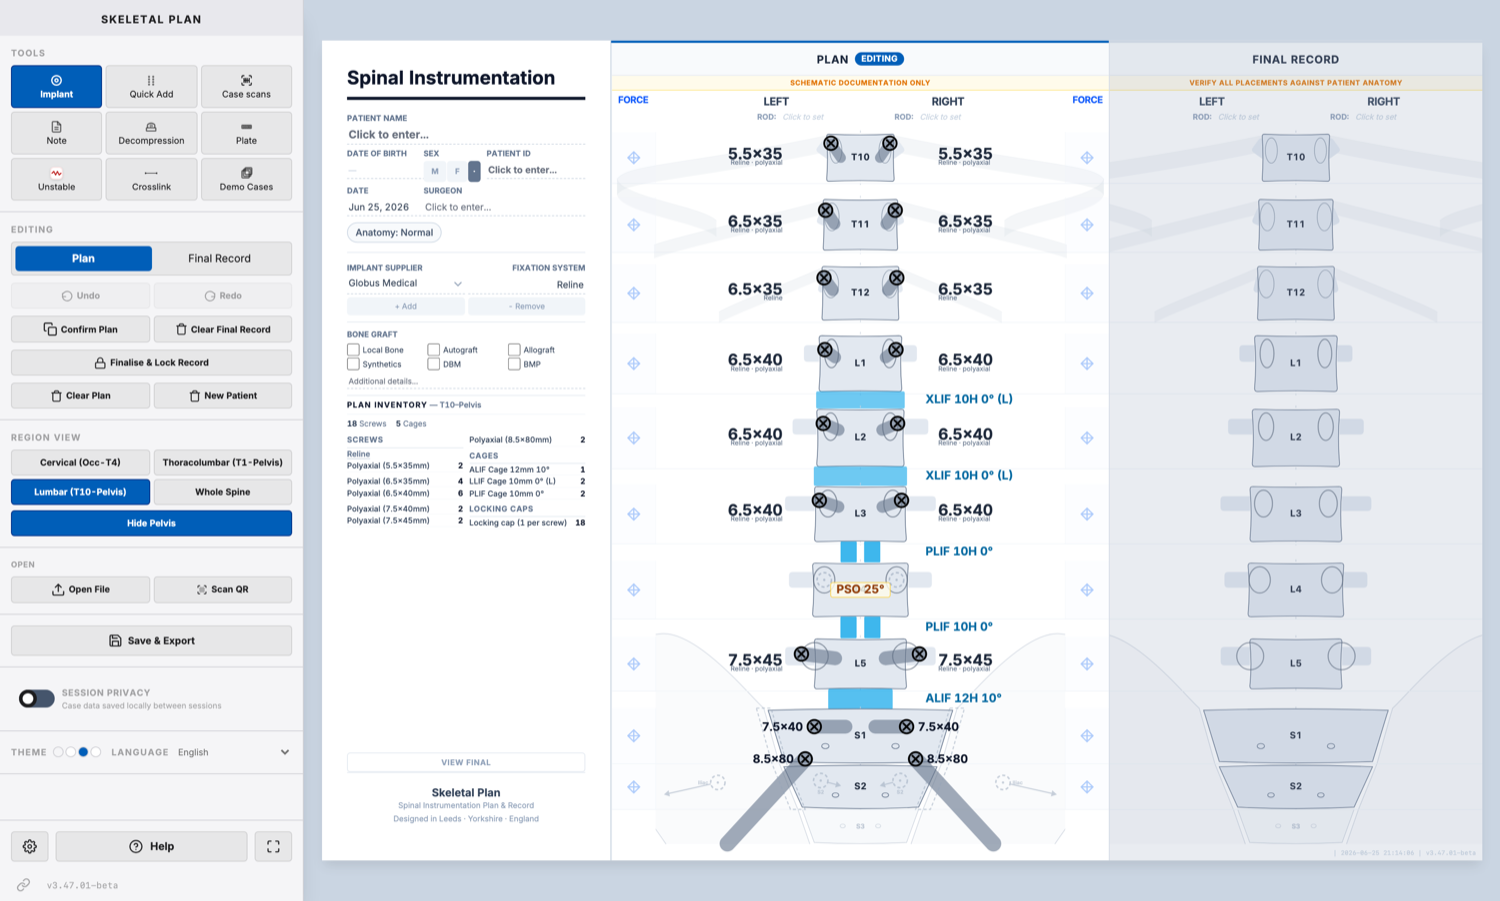
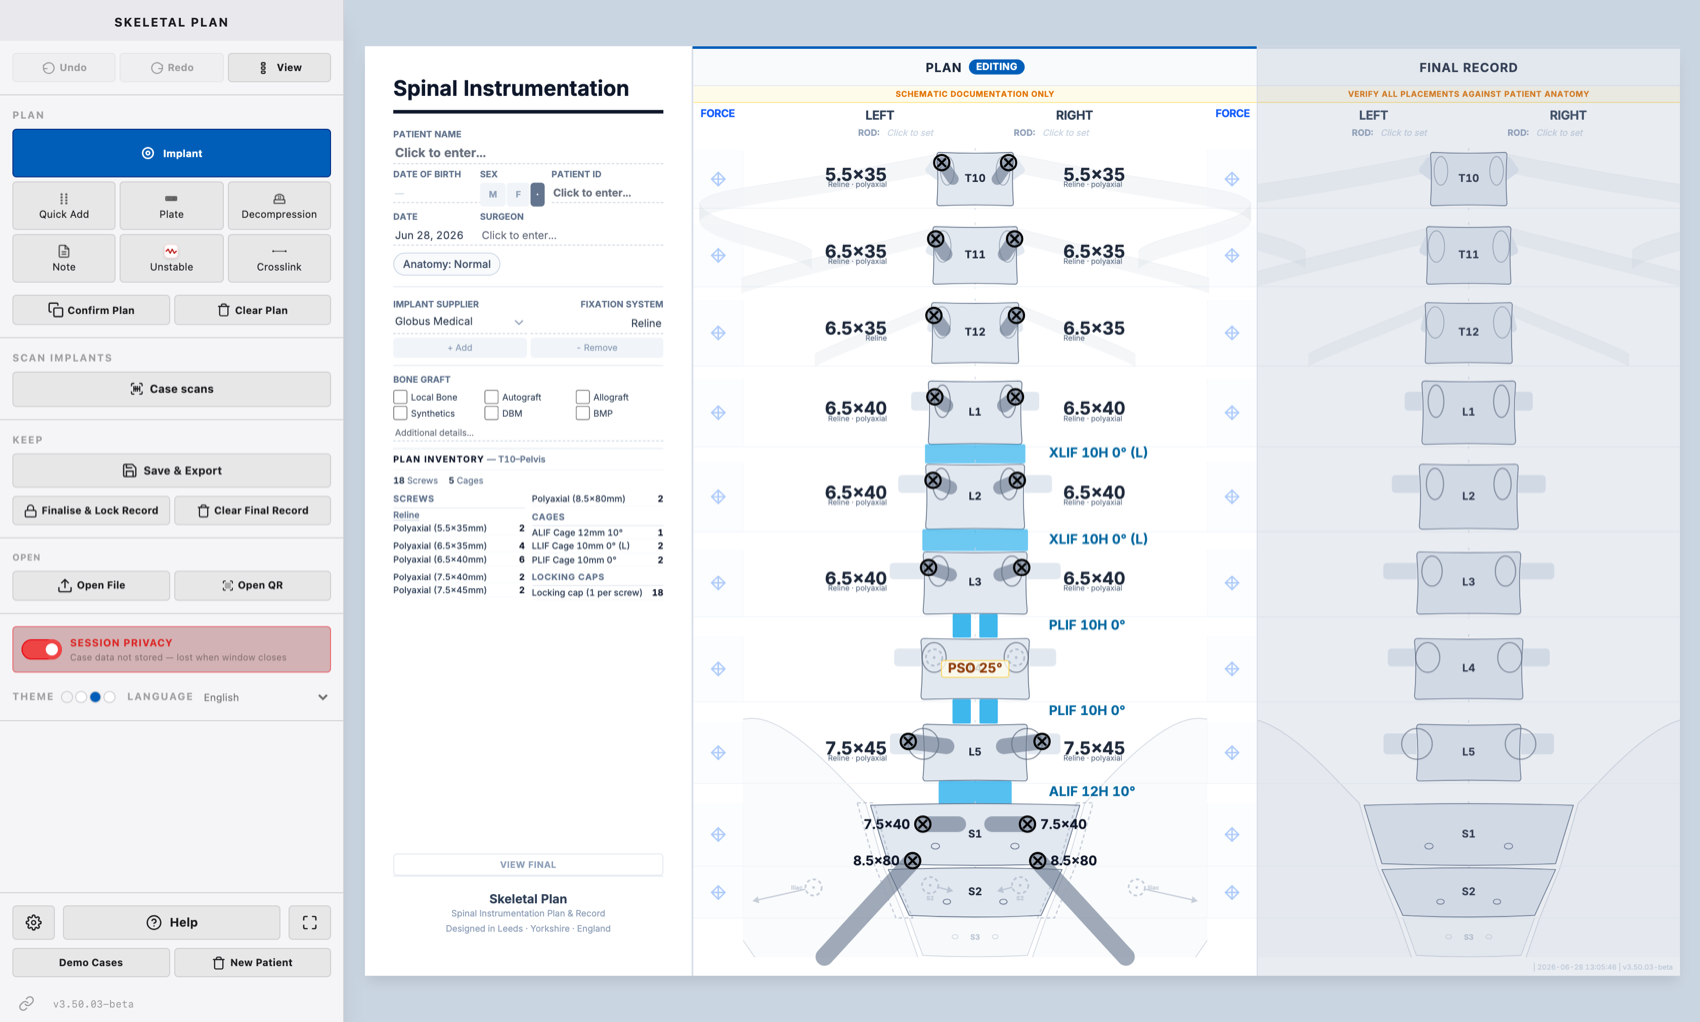
landing: 4-device hero montage; corrected barcodes; paragraph + UI refresh
- Hero is now a montage of all four screen grabs: current desktop PSO
  (recaptured — Undo/Redo now at top), iPad cervical corpectomy (portrait),
  iPhone AIS plan, iPhone AIS final (teal ghosts). Removed the separate
  showcase band (folded into the hero).
- Barcodes: Solera Voyager 6.5x45 (00643169745261, was an odd 4.5x45),
  every expiry set to 2032-10-20 (321020), and the Stryker HIBC is now a
  two-part dual scan — primary (product) + secondary (lot + expiry) stacked.
- Fix the About paragraph run-on (the earlier em-dash removal left a
  comma-splice); split into two clean sentences.

diff --git a/index.html b/index.html
@@ -60,14 +60,17 @@
   .trustline{ margin-top:20px; color:#7e8ea0; font-size:.82rem; }
   .trustline b{ color:#aab8c8; font-weight:600; }
 
-  .shot{ position:relative; }
-  .shot .desk{ width:100%; border-radius:12px; border:1px solid #28384b; box-shadow:0 26px 60px -24px rgba(0,0,0,.7); display:block; }
-  .shot .phone{ position:absolute; right:-6px; bottom:-24px; width:26%; min-width:116px; border-radius:16px; border:3px solid #1c2c3e; box-shadow:0 20px 40px -14px rgba(0,0,0,.65); }
+  .shot{ position:relative; width:100%; aspect-ratio:1 / 0.84; }
+  .shot img{ position:absolute; border-radius:10px; box-shadow:0 22px 48px -22px rgba(0,0,0,.62); display:block; }
+  .m-desk{ top:0; right:0; width:88%; border:1px solid #28384b; z-index:1; }
+  .m-pad{ bottom:0; left:0; width:31%; border:3px solid #1c2c3e; border-radius:14px; z-index:3; }
+  .m-phone{ width:21.5%; border:3px solid #1c2c3e; border-radius:16px; }
+  .m-phone1{ bottom:-3%; left:27%; z-index:4; }
+  .m-phone2{ bottom:7%; left:48%; z-index:2; }
   @media (max-width:840px){
-    .hero-in{ grid-template-columns:1fr; gap:36px; padding:46px 22px 50px; }
+    .hero-in{ grid-template-columns:1fr; gap:30px; padding:46px 22px 50px; }
     .hero h1{ font-size:2.1rem; }
-    .shot{ max-width:520px; }
-    .shot .phone{ bottom:-16px; }
+    .shot{ max-width:580px; margin:0 auto; }
   }
 
   .wrap{ max-width:1000px; margin:0 auto; padding:0 24px; }
@@ -138,6 +141,8 @@
   .code img{ display:block; margin:0 auto; height:118px; width:auto; max-width:90vw; }
   .code .cap{ margin-top:11px; font-size:.82rem; font-weight:700; color:var(--ink); }
   .code .sym{ margin-top:1px; font-size:.66rem; font-weight:600; color:var(--muted); text-transform:uppercase; letter-spacing:.05em; }
+  .code-stack{ display:flex; flex-direction:column; gap:9px; }
+  .code-stack img{ height:86px; }
   .scan-strip .caption{ margin:22px auto 16px; max-width:56ch; color:var(--muted); font-size:.9rem; }
   .lead-p{ color:var(--body); font-size:1rem; margin:0 0 14px; max-width:62ch; }
   .pill{ display:inline-block; background:var(--accent-soft); color:var(--accent-d); font-size:.68rem; font-weight:700; padding:3px 9px; border-radius:999px; vertical-align:middle; letter-spacing:.03em; text-transform:uppercase; }
@@ -205,22 +210,16 @@
       <p class="trustline"><b>Free for clinical use</b> · works offline · 22 languages · no account, no telemetry</p>
     </div>
     <div class="shot">
-      <img class="desk" src="/img/screenshot-plan.png" alt="Skeletal Plan showing a pedicle subtraction osteotomy plan and operative record" loading="eager" width="1500">
-      <img class="phone" src="/img/screenshot-phone.png" alt="Skeletal Plan on iPhone showing a scoliosis construct" loading="lazy" width="820">
+      <img class="m-desk" src="/img/screenshot-plan.png" alt="Skeletal Plan on a laptop: a pedicle subtraction osteotomy plan with the operative record and a live implant inventory" loading="eager" width="1700">
+      <img class="m-pad" src="/img/screenshot-ipad.png" alt="Skeletal Plan on iPad: a cervical corpectomy with a reconstruction cage" loading="lazy" width="838">
+      <img class="m-phone m-phone1" src="/img/screenshot-phone.png" alt="Skeletal Plan on iPhone: a scoliosis instrumentation plan" loading="lazy" width="517">
+      <img class="m-phone m-phone2" src="/img/screenshot-final-phone.png" alt="Skeletal Plan on iPhone: the final operative record with planned implants shown as teal ghosts" loading="lazy" width="528">
     </div>
   </div>
 </header>
 
 <main>
 
-  <section class="block showcase">
-    <div class="wrap">
-      <div class="showcase-row">
-        <img class="sc-pad" src="/img/screenshot-ipad.png" alt="A cervical corpectomy planned on iPad in Skeletal Plan, with the plan and the operative record side by side and a live implant inventory" loading="lazy" width="1700">
-        <img class="sc-phone" src="/img/screenshot-final-phone.png" alt="The final operative record on iPhone, with the planned-but-unplaced implants shown as teal ghosts awaiting confirmation, on a second screen in portrait" loading="lazy" width="528">
-      </div>
-    </div>
-  </section>
 
   <section class="block" id="how">
     <div class="wrap">
@@ -256,9 +255,12 @@
         <div class="codes">
           <div class="code"><img src="/img/barcode-datamatrix.svg" alt="Sample implant barcode (GS1 DataMatrix)" loading="lazy"></div>
           <div class="code"><img src="/img/barcode-gs1-128.svg" alt="Sample implant barcode (GS1-128)" loading="lazy"></div>
-          <div class="code"><img src="/img/barcode-hibc.svg" alt="Sample implant barcode (HIBC)" loading="lazy"></div>
+          <div class="code code-stack">
+            <img src="/img/barcode-hibc.svg" alt="Sample implant barcode (HIBC primary, product)" loading="lazy">
+            <img src="/img/barcode-hibc-secondary.svg" alt="Sample implant barcode (HIBC secondary, lot and expiry)" loading="lazy">
+          </div>
         </div>
-        <p class="caption">Three real implant barcodes. Scan one with Skeletal Plan to see exactly what it is: the system, size, lot and expiry. Open the sample sheet for the full set of test codes.</p>
+        <p class="caption">Real implant barcodes: GS1 DataMatrix, GS1-128 and a two-part HIBC (primary, then lot and expiry). Scan any with Skeletal Plan to see exactly what it is: the system, size, lot and expiry. Open the sample sheet for the full set of test codes.</p>
         <a class="btn btn-primary" href="/spine/scan-test.html">Open the sample barcode sheet</a>
       </div>
     </div>
@@ -346,7 +348,7 @@
         <h2 class="sec">Spinal Instrumentation Plan &amp; Record <span class="pill">Free</span></h2>
         <p class="sec-sub">Leeds Spinal Instrumentation Plan and Record · v3.50.03-beta</p>
       </div>
-      <p class="lead-p">A digital documentation tool for spinal surgery instrumentation. It records the pre-operative plan and post-operative construct, replacing hand-drawn diagrams with a structured, exportable format that works in any modern browser on connected hospital computers, with phone apps and an offline build for when there is no network.</p>
+      <p class="lead-p">A digital documentation tool for spinal surgery instrumentation. It records the pre-operative plan and the post-operative construct, replacing hand-drawn diagrams with a structured, exportable format. It works in any modern browser on connected hospital computers, with phone apps and an offline build for when there is no network.</p>
       <p class="callout amber">Documentation tool, not a medical device. Not approved, cleared, or certified by MHRA, EU MDR notified bodies, or the FDA.</p>
       <p class="callout blue">Population-based reference data from published literature is provided for convenience. The operating surgeon must verify all values against the patient's anatomy and imaging.</p>
 